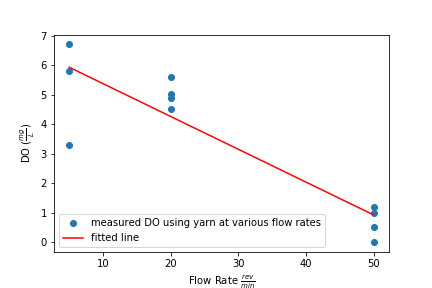
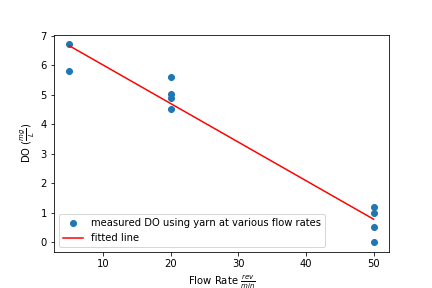
combined graphs

diff --git a/Final Project/Group 1 Final Project.md b/Final Project/Group 1 Final Project.md
@@ -60,6 +60,17 @@ plt.savefig('C:/Users/Jiwon Lee/github/rosie/Final Project/yarn_at_5rpm.png')
 plt.show()
 
 
+# Combine both plots
+plt.plot(Na2SO3_string_5rpm, DO_string_5rpm, 'og', label='string')
+plt.plot(Na2SO3_string_5rpm, intercept1 + slope1*Na2SO3_string_5rpm, 'g', label='string fit')
+plt.plot(Na2SO3_yarn_5rpm, DO_yarn_5rpm, 'ob', label='yarn')
+plt.plot(Na2SO3_yarn_5rpm, intercept2 + slope2*Na2SO3_yarn_5rpm, 'b', label='yarn fit')
+plt.xlabel(r'$Na_{2}SO_{3}$ (mg)');
+plt.ylabel(r'DO ($\frac{mg}{L}$)');
+plt.legend()
+plt.savefig('C:/Users/Jiwon Lee/github/rosie/Final Project/both_at_5rpm.png')
+plt.show()
+
 
 # Constant Na2SO3
 # Data for flat string
@@ -82,8 +93,8 @@ plt.show()
 # 3.3 point m
 
 # DO data for loopy yarn
-Flowrate_yarn = np.array([5,5,5,20,20,20,20,50,50,50,50])*u.revolution/u.min
-DO_yarn = np.array([3.3,5.8,6.7,5.6,5.01,4.9,4.5,0.5,1.2,1,0])*u.mg/u.L
+Flowrate_yarn = np.array([5,5,20,20,20,20,50,50,50,50])*u.revolution/u.min
+DO_yarn = np.array([5.8,6.7,5.6,5.01,4.9,4.5,0.5,1.2,1,0])*u.mg/u.L
 
 slope4, intercept4, r_value, p_value, std_err = stats.linregress(Flowrate_yarn, DO_yarn)
 slope4 = slope4/Flowrate_yarn.units
@@ -95,6 +106,20 @@ plt.ylabel(r'DO ($\frac{mg}{L}$)');
 plt.legend()
 plt.savefig('C:/Users/Jiwon Lee/github/rosie/Final Project/yarn_at_rpms.png')
 plt.show()
+
+# Combine both plots
+plt.plot(Flowrate_string, DO_string, 'og', label='string')
+plt.plot(Flowrate_string, intercept3 + slope3*Flowrate_string, 'g', label='string fit')
+plt.plot(Flowrate_yarn, DO_yarn, 'ob', label='yarn')
+plt.plot(Flowrate_yarn, intercept4 + slope4*Flowrate_yarn, 'b', label='yarn fit')
+plt.xlabel(r'Flow Rate $\frac{rev}{min}$');
+plt.ylabel(r'DO ($\frac{mg}{L}$)');
+plt.legend()
+plt.savefig('C:/Users/Jiwon Lee/github/rosie/Final Project/both_at_rpms.png')
+plt.show()
+
+
+
 
 
 
